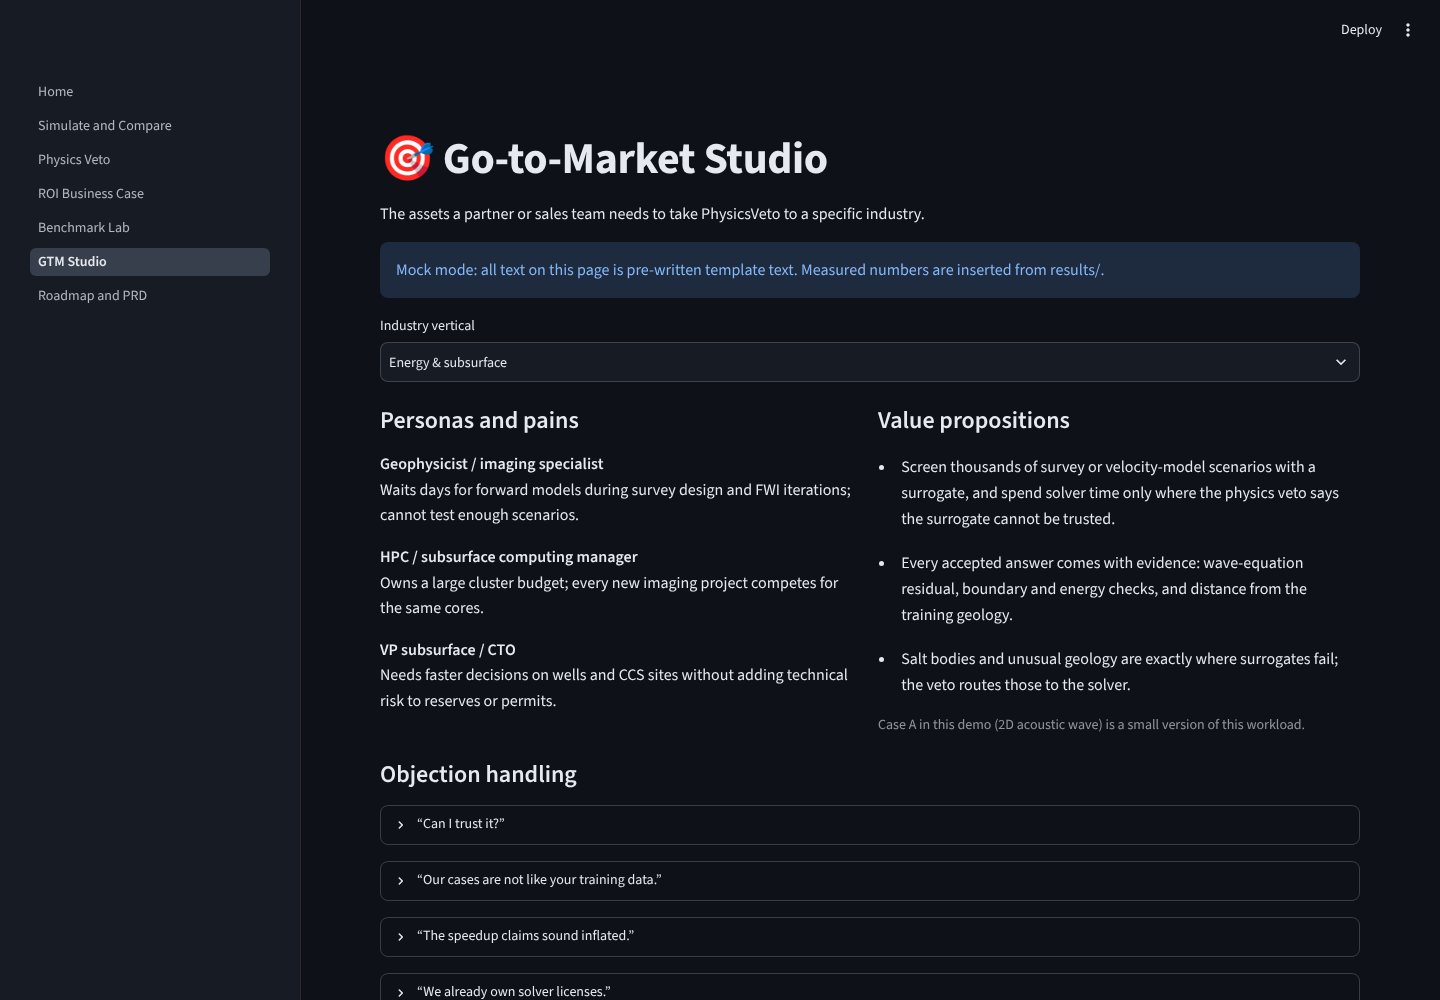
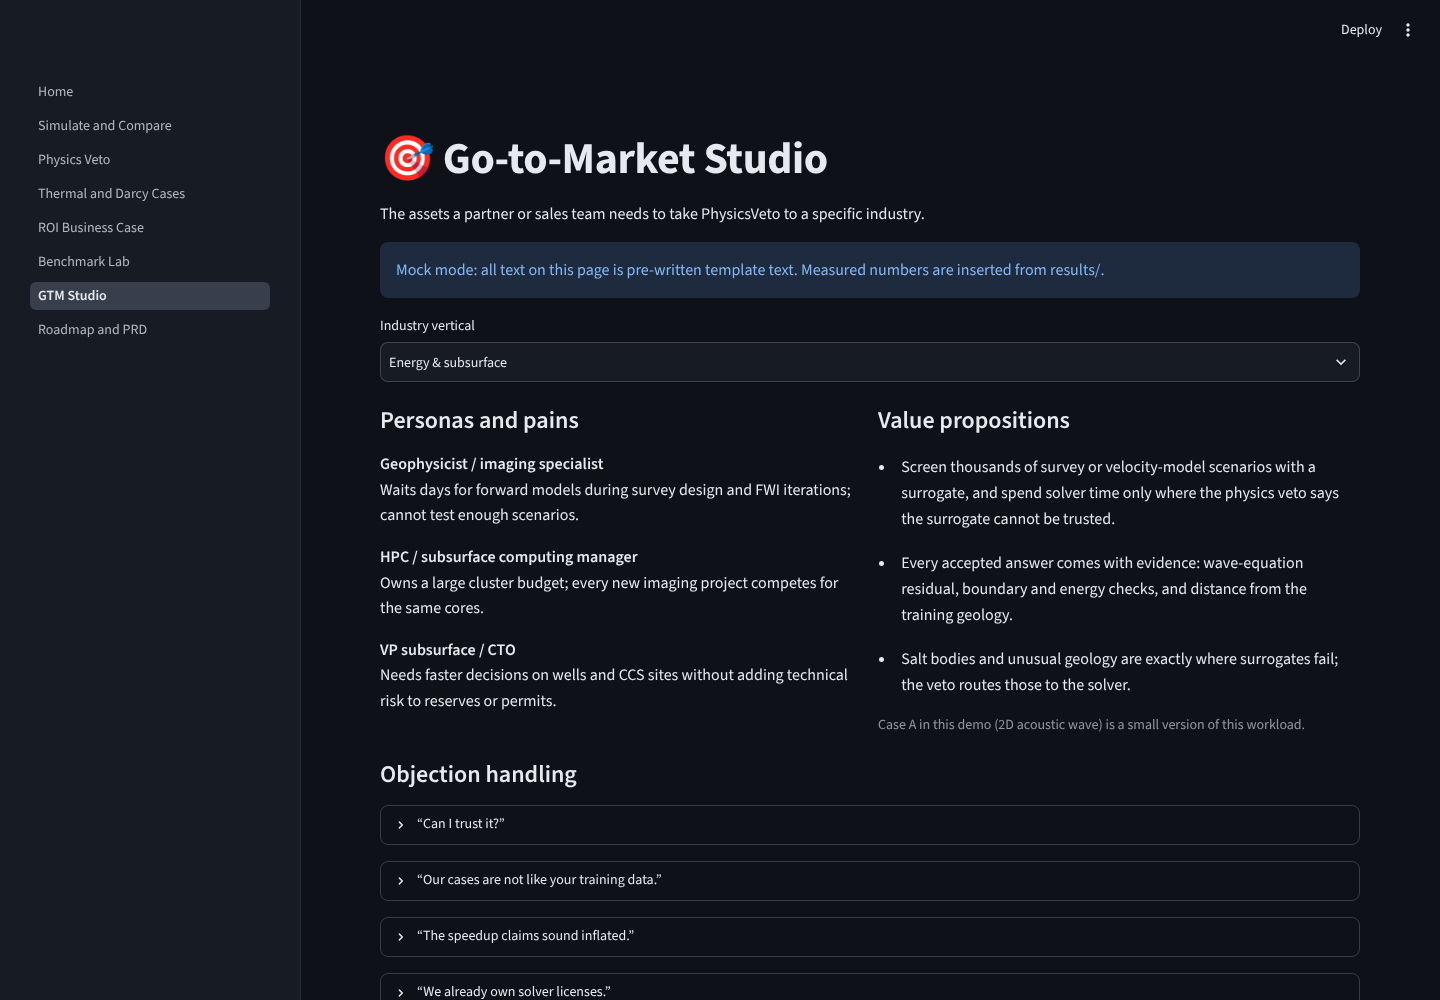
Refresh README screenshots and GIF from the current app

Changed region(s): [[0.0, 0.186, 0.1875, 0.341]]

diff --git a/scripts/make_figures.py b/scripts/make_figures.py
@@ -35,8 +35,9 @@ def main() -> None:
                                    timeout=60_000)
             page.wait_for_timeout(1200)
 
-        for name, path in [("overview", ""), ("simulate", "Simulate_and_Compare"), ("veto", "Physics_Veto"),
-                           ("roi", "ROI_Business_Case"), ("benchmark", "Benchmark_Lab"), ("gtm", "GTM_Studio")]:
+        for name, path in [("home", ""), ("simulate", "Simulate_and_Compare"), ("veto", "Physics_Veto"),
+                           ("thermal_darcy", "Thermal_and_Darcy_Cases"), ("roi", "ROI_Business_Case"),
+                           ("benchmark", "Benchmark_Lab"), ("gtm", "GTM_Studio")]:
             page.goto(f"{a.url}/{path}")
             settle()
             page.screenshot(path=str(FIG / f"{name}.png"))

diff --git a/README.md b/README.md
@@ -167,6 +167,15 @@ docker compose up      # then open http://localhost:8501
 **Streamlit Community Cloud:** New app → this repo → main file `app/Home.py`. Weights and results are committed,
 so the hosted app runs inference only.
 
+### More screens
+| Simulate & Compare | Thermal & Darcy cases |
+|---|---|
+| ![Simulate and Compare](results/figures/simulate.png) | ![Thermal and Darcy cases](results/figures/thermal_darcy.png) |
+| **ROI & Business Case** | **Benchmark Lab** |
+| ![ROI and Business Case](results/figures/roi.png) | ![Benchmark Lab](results/figures/benchmark.png) |
+
+Screenshots and the GIF are captured from the running app by `scripts/make_figures.py`.
+
 ## Repository layout
 ```
 physicsveto/
@@ -226,4 +235,3 @@ off by default (`PHYSICSVETO_MOCK=0` plus `ANTHROPIC_API_KEY`); its drafts are l
 Dr Hesham Moubarak, geophysicist with about 25 years of operator experience (ExxonMobil, KOC, Devon), now
 building verified subsurface AI.
 
-*Independent portfolio project. Not affiliated with or endorsed by NVIDIA or any vendor mentioned.*
